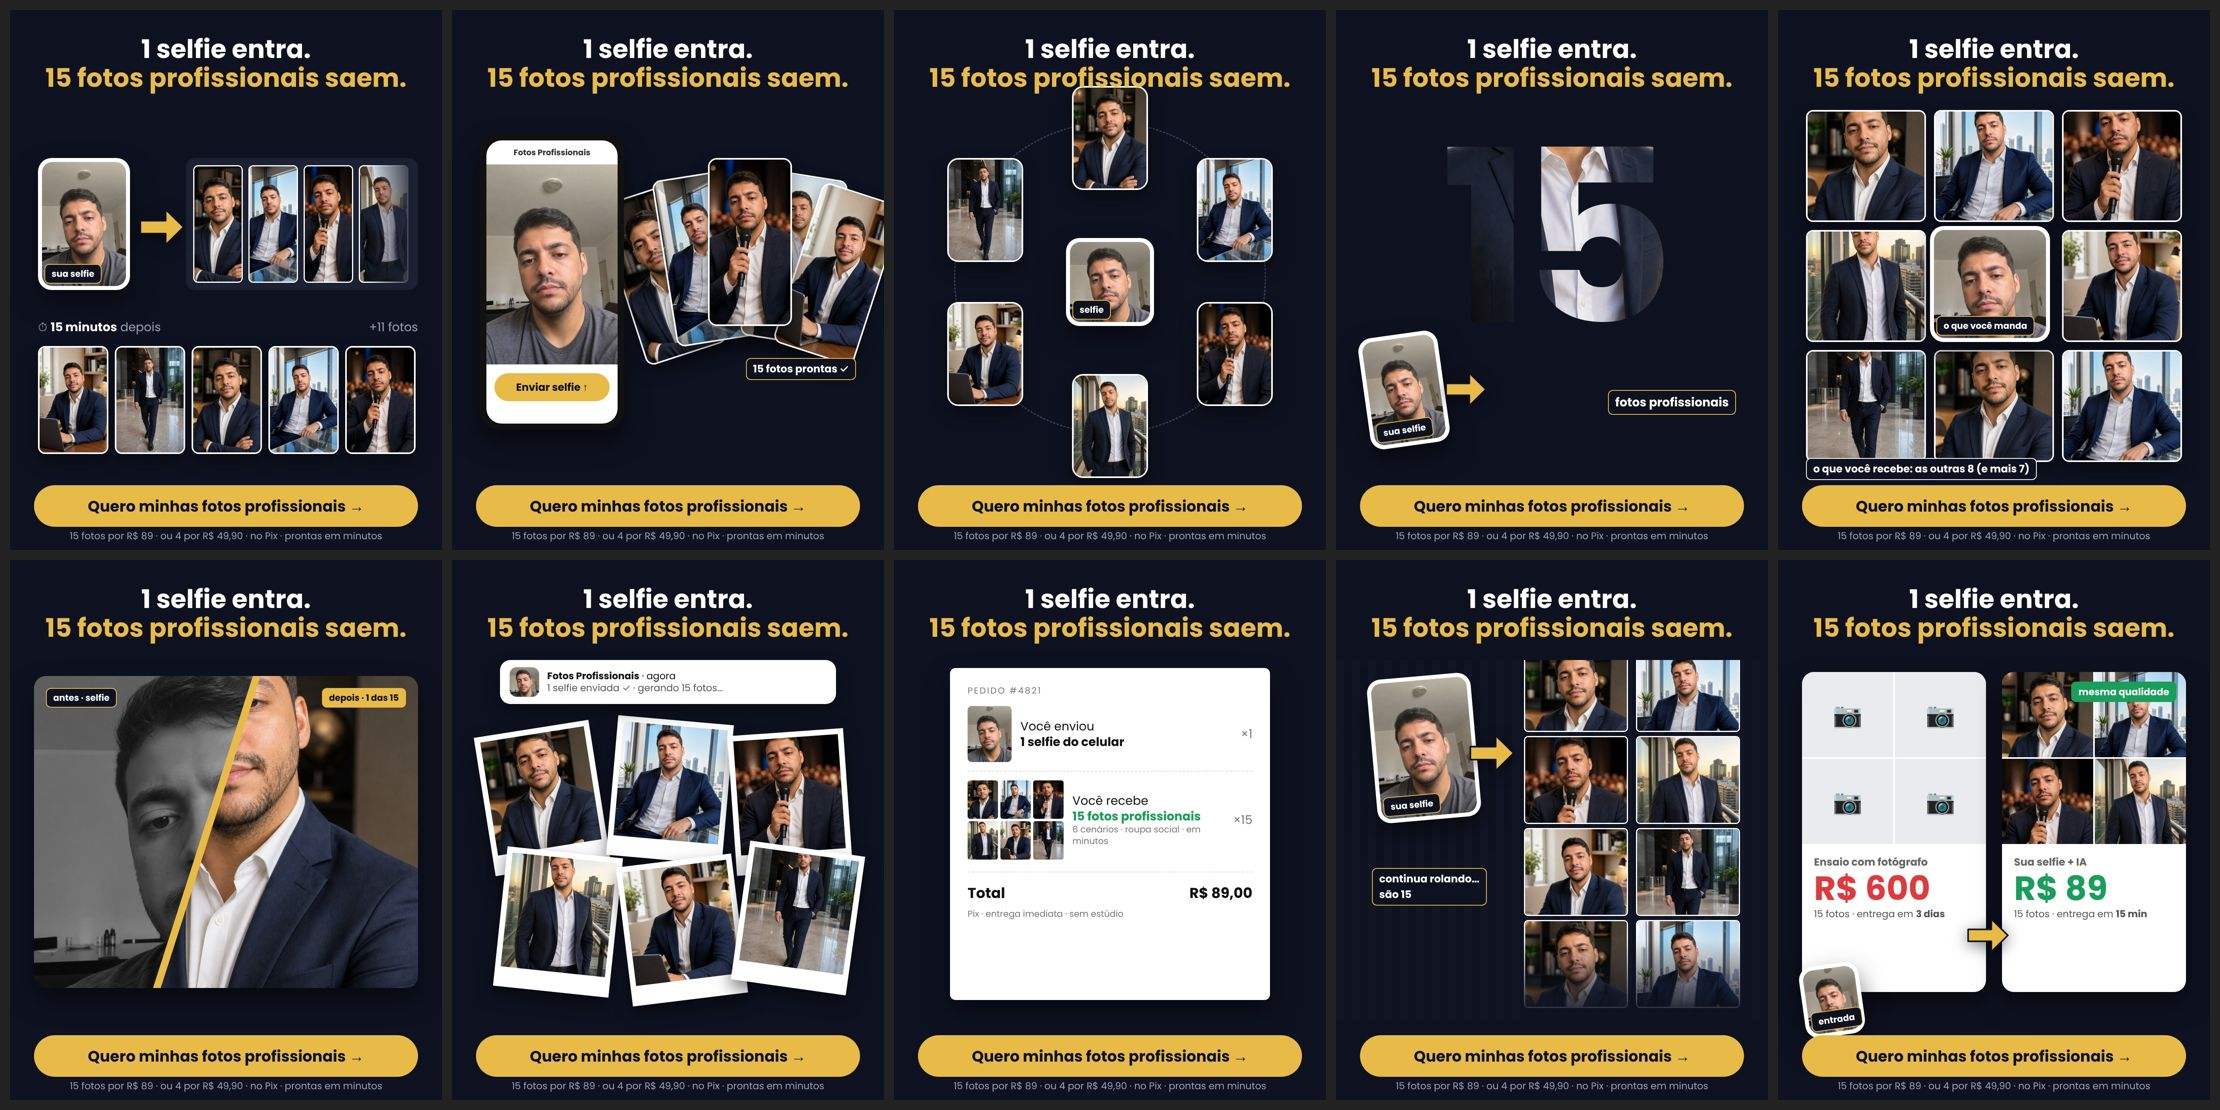
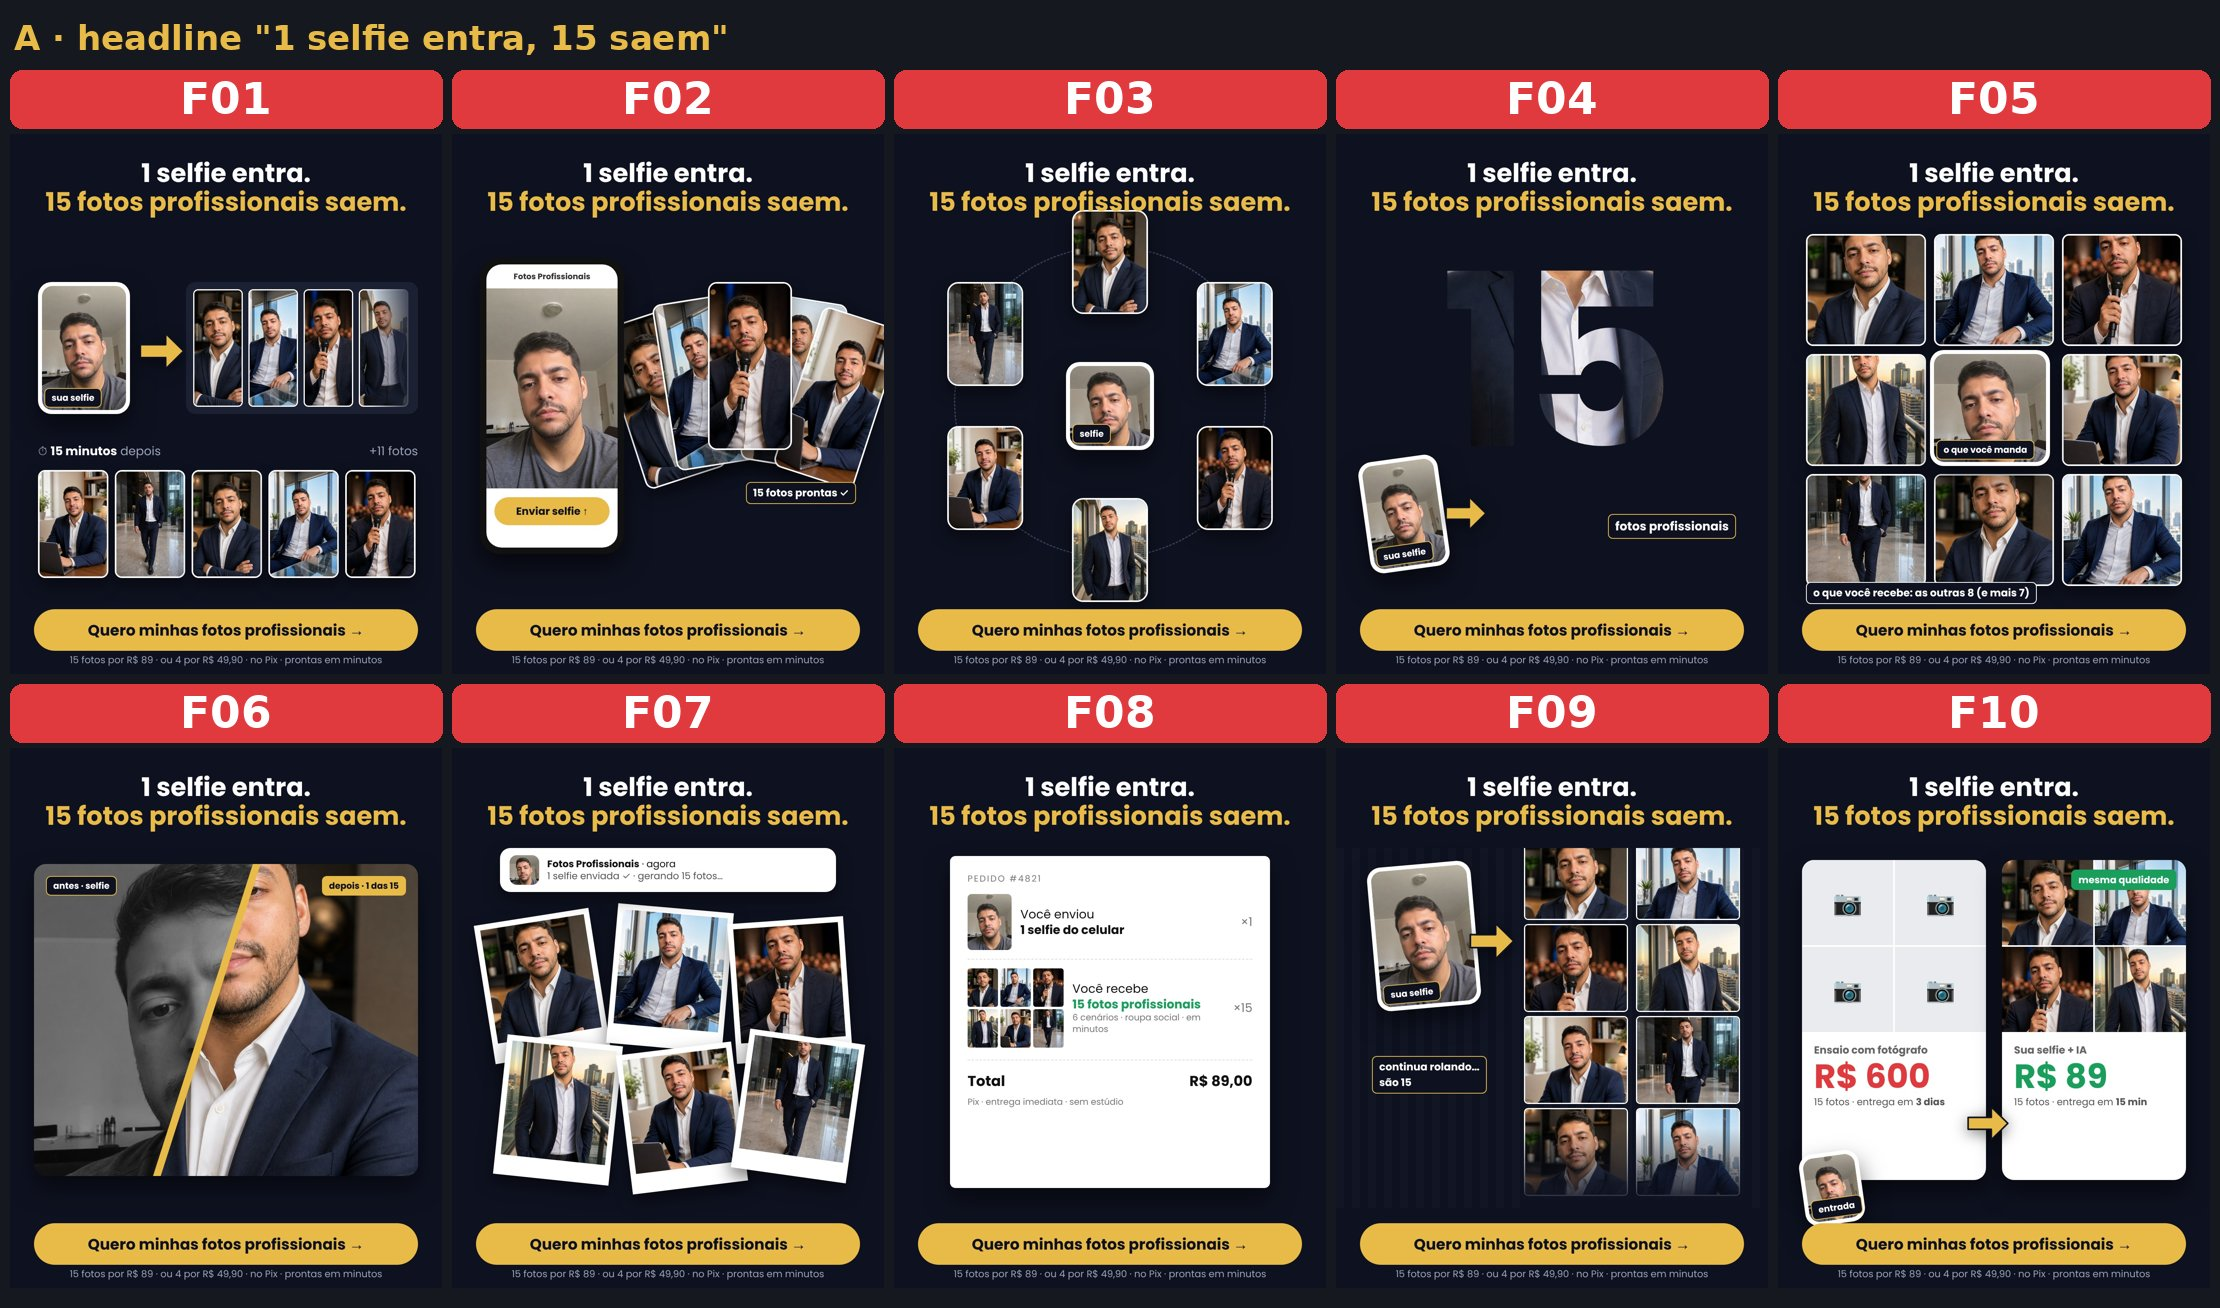
fotosadv: formatos B com headline validada R$49,90 + grades numeradas
Claude-Session: https://claude.ai/code/session_0116X1JqsjGjG1aJ2wScZ9pe

diff --git a/fotosadv/2026-11-03-formatos/grade.py b/fotosadv/2026-11-03-formatos/grade.py
@@ -1,0 +1,14 @@
+# Grade numerada para o Othon apontar a peça. Uso: python3 grade.py PREFIXO SAIDA TITULO
+import sys,glob
+from PIL import Image,ImageDraw,ImageFont
+pfx,out,tit=sys.argv[1:4]
+fs=sorted(glob.glob(pfx+'*.jpg'));W,H=432,540;top=70;S=64
+g=Image.new('RGB',(W*5+60,(H+S)*2+30+top),'#15181f');d=ImageDraw.Draw(g)
+B='/usr/share/fonts/truetype/dejavu/DejaVuSans-Bold.ttf'
+d.text((14,18),tit,font=ImageFont.truetype(B,34),fill='#e8ba48')
+for i,f in enumerate(fs):
+  im=Image.open(f);im.thumbnail((W,H));x,y=10+(i%5)*(W+10),top+(i//5)*(H+S+10);g.paste(im,(x,y+S))
+  n=f.split('_')[2][:3] if '_F' in f else str(i+1)
+  d.rounded_rectangle((x,y,x+W,y+S-6),12,fill='#e0393e')
+  d.text((x+W//2,y+(S-6)//2),n,font=ImageFont.truetype(B,44),fill='#fff',anchor='mm')
+g.save(out,quality=85);print(out,len(fs))
